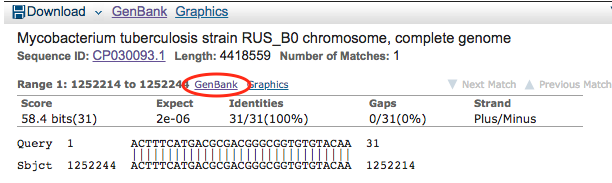
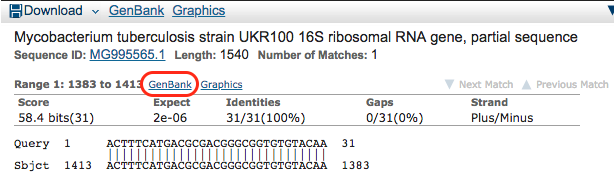
update

diff --git a/tutorial/interpretation/README.md b/tutorial/interpretation/README.md
@@ -69,7 +69,7 @@ Once you have the results, you can use the "Results for" dropdown at the top to 
 
 #### Step 3: 
 
-Scroll down and look at the hits for the k-mer in the model. We see that not all hits are for *M. tuberculosis*. Click on the first hit for *M. tuberculosis*: `Mycobacterium tuberculosis strain RUS_B0 chromosome, complete genome`
+Scroll down and look at the hits for the k-mer in the model. We see that not all hits are for *M. tuberculosis*. Also, it looks like we are lucky and the k-mer was found in a GenBank entry specific to a gene. Click on the following hit: `Mycobacterium tuberculosis strain UKR100 16S ribosomal RNA gene, partial sequence`
 
 <img src="blast3.png" />
 
@@ -95,7 +95,7 @@ We see that the k-mer is located in the 16S ribosomal RNA, which is the target o
 
 ### Analyzing equivalent rules
 
-In this part of the tutorial, we go further in our interpretation of the first rule of the model. We will use the equivalent rules (see paper) to determine the nature of the genomic variation identified by the learning algorithm. The equivalent rules are given in several files in the output directory that are labelled according to the rule to which they are equivalent. Here, we will use the [model_rule_0_equiv.fasta](../../models/cart_b/mycobacterium%20tuberculosis/kanamycin/repeat_1/model_rule_0_equiv.fasta) file, which contains the sequence of 31 k-mers.
+In this part of the tutorial, we go further in our interpretation of the first rule of the model. We will use the equivalent rules (see paper) to determine the nature of the genomic variation identified by the learning algorithm. The equivalent rules are given in several files in the output directory that are labelled according to the rule to which they are equivalent. Here, we will use the [model_rule_0_equiv.fasta](../../models/cart_b/mycobacterium%20tuberculosis/kanamycin/repeat_1/model_rule_0_equiv.fasta) file, which contains the sequence of 31 k-mers who's presence was found to be equally predictive of the phenotype.
 
 #### Step 1:
 
@@ -125,4 +125,19 @@ Open the downloaded file using the [Unipro UGENE](http://ugene.net/) software.
 Click on the "Find pattern" button in the toolbar:
 
 <img src="ugene4.png" />
+
+The following menu will appear. Select "Load patterns from file" and select the [model_rule_0_equiv.fasta](../../models/cart_b/mycobacterium%20tuberculosis/kanamycin/repeat_1/model_rule_0_equiv.fasta) file. For the group name, use "Equivalent k-mers" and tick "Use pattern name". Then, click the "Create annotations" button.
+
+<img src="ugene5.png" />
+
+
+#### Step 5:
+
+Look at where the equivalent k-mers are located in the genome. We see that they all overlap one concise region annotated as "16S Ribosomal RNA".
+
+<img src="ugene6.png" />
+
+Zoom in. You will obtain the following:
+
+<img src="ugene7.png" />
 
